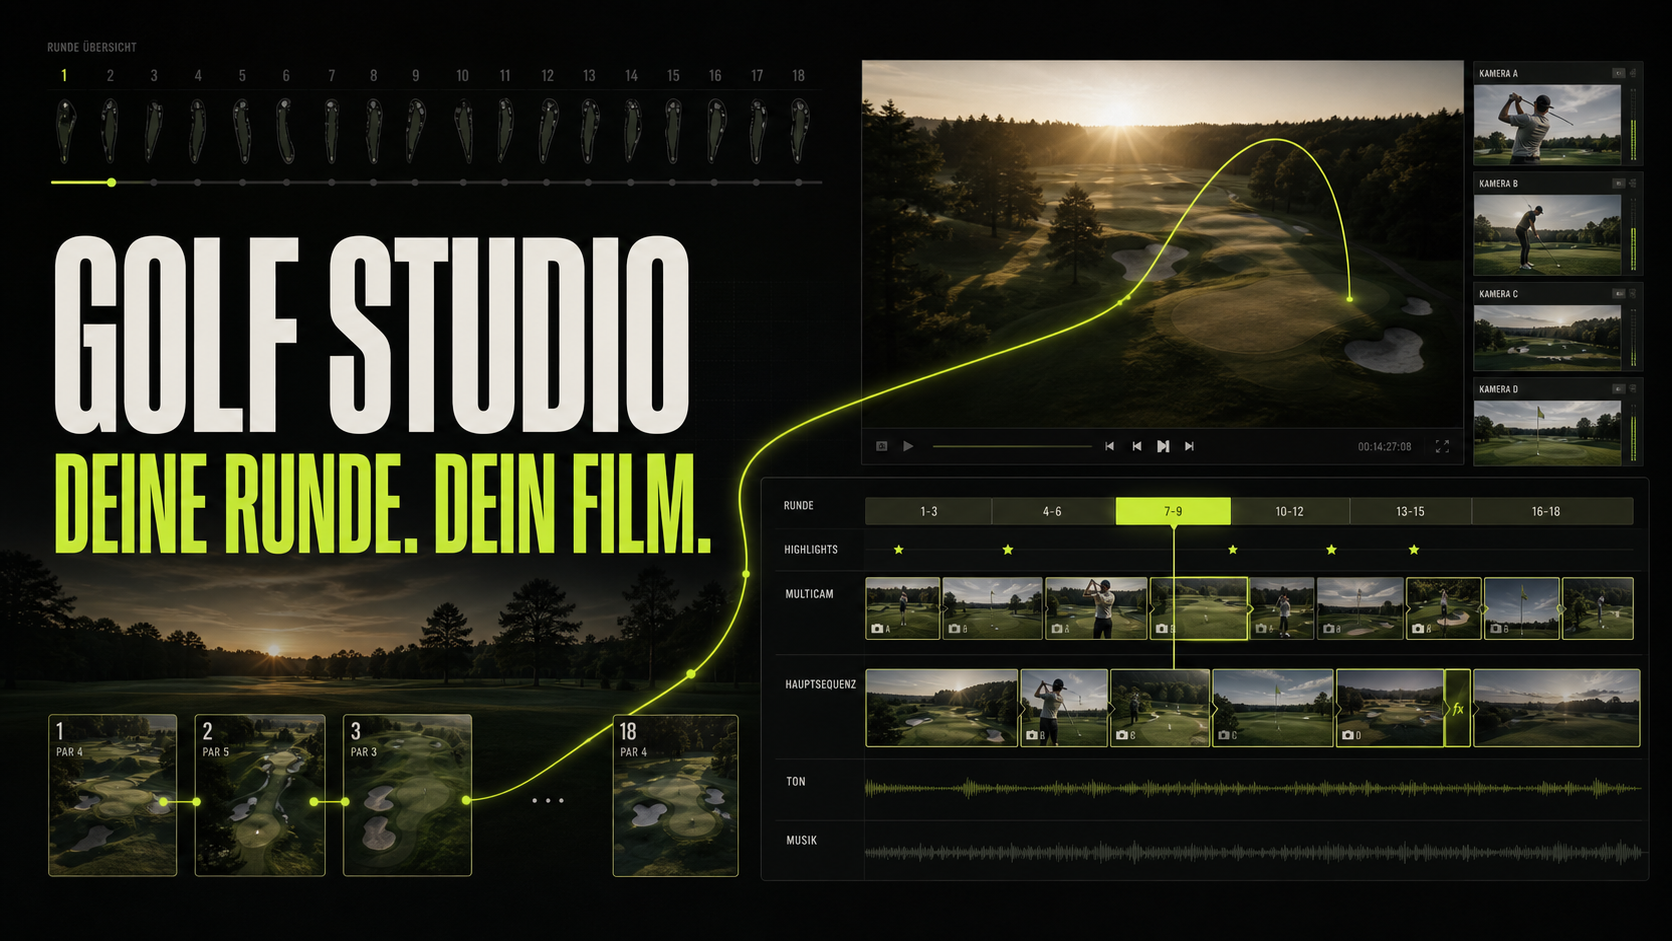
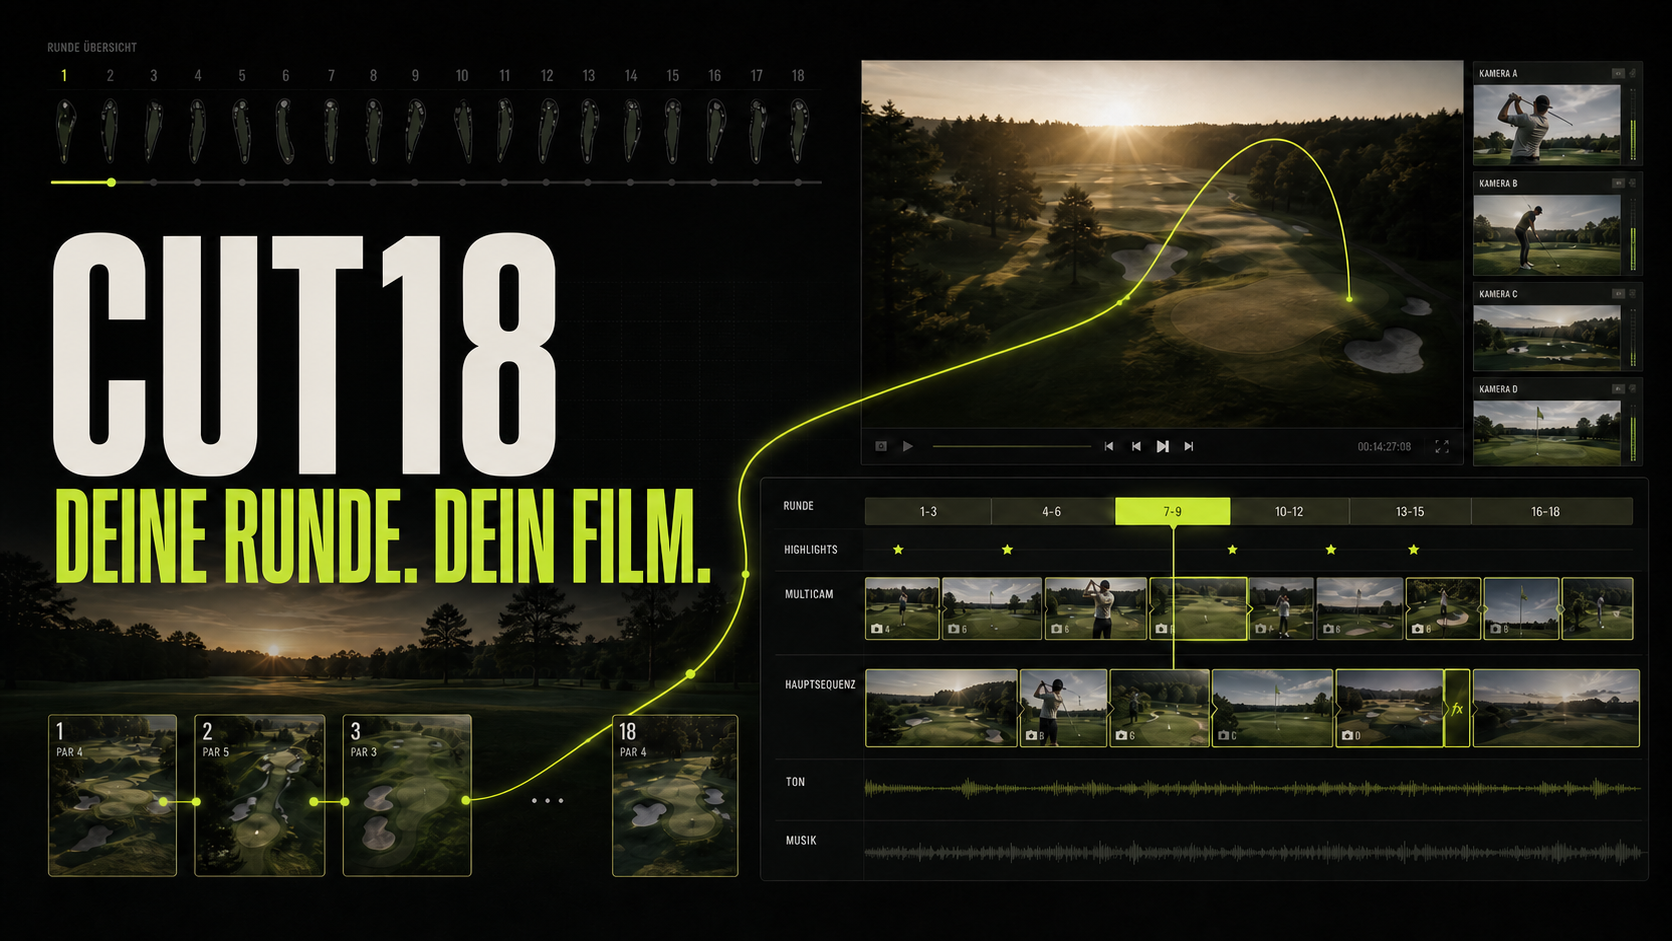
Adopt CUT18 brand across product

diff --git a/landing/index.html b/landing/index.html
@@ -4,21 +4,21 @@
     <meta charset="UTF-8" />
     <meta name="viewport" content="width=device-width, initial-scale=1.0" />
     <meta name="theme-color" content="#080b09" />
-    <meta name="description" content="Golf Studio ist das Schnitt-Playbook für komplette Golfvideos – von der Runde über Multicam und Golfgrafiken bis zum lokalen Export." />
-    <meta property="og:title" content="Golf Studio — Deine Runde. Dein Film." />
+    <meta name="description" content="CUT18 ist das Schnitt-Playbook für komplette Golfvideos – von der Runde über Multicam und Golfgrafiken bis zum lokalen Export." />
+    <meta property="og:title" content="CUT18 — Deine Runde. Dein Film." />
     <meta property="og:description" content="Das Schnitt-Playbook für vollständige Golfvideos." />
     <meta property="og:image" content="/og.png" />
     <meta property="og:type" content="website" />
     <meta name="twitter:card" content="summary_large_image" />
-    <title>Golf Studio — Deine Runde. Dein Film.</title>
+    <title>CUT18 — Deine Runde. Dein Film.</title>
     <link rel="stylesheet" href="/styles.css" />
 </head>
 <body>
     <div class="page-noise" aria-hidden="true"></div>
     <header class="site-header">
-        <a class="brand" href="#top" aria-label="Golf Studio Startseite">
+        <a class="brand" href="#top" aria-label="CUT18 Startseite">
             <span class="brand-mark"><i></i></span>
-            <span>GOLF <b>STUDIO</b></span>
+            <span>CUT<b>18</b></span>
         </a>
         <nav aria-label="Hauptnavigation">
             <a href="#playbook">Das Playbook</a>
@@ -34,7 +34,7 @@
             <div class="hero-copy reveal">
                 <div class="kicker"><span></span> DAS SCHNITT-PLAYBOOK FÜR GOLFVIDEOS</div>
                 <h1>Deine Runde.<br><em>Dein Film.</em></h1>
-                <p class="hero-lead">Golf Studio versteht die Dramaturgie einer Golfrunde. Aus Kameramaterial wird ein strukturierter Rohschnitt — bereit für Multicam, Golfgrafiken, Shot-Tracer und den finalen Export.</p>
+                <p class="hero-lead">CUT18 versteht die Dramaturgie einer Golfrunde. Aus Kameramaterial wird ein strukturierter Rohschnitt — bereit für Multicam, Golfgrafiken, Shot-Tracer und den finalen Export.</p>
                 <div class="hero-actions">
                     <button class="button button-primary" data-beta-trigger>Für die Windows-Beta vormerken <span>↗</span></button>
                     <a class="button button-ghost" href="#playbook"><span class="play-dot">▶</span> Das Playbook entdecken</a>
@@ -50,7 +50,7 @@
                 <div class="product-halo" aria-hidden="true"></div>
                 <div class="studio-window">
                     <div class="window-topbar">
-                        <div class="mini-brand"><span></span> GOLF STUDIO</div>
+                        <div class="mini-brand"><span></span> CUT18</div>
                         <div class="project-name">Runde · Falkenstein</div>
                         <div class="window-actions"><i></i><i></i><i></i></div>
                     </div>
@@ -100,7 +100,7 @@
             <div>
                 <p class="kicker"><span></span> DER UNTERSCHIED</p>
                 <h2>Eine leere Timeline kennt kein Golf.</h2>
-                <p>Golf Studio schon. Löcher, Spieler, Schlagreihenfolgen und Kameras sind keine losen Clips, sondern die Bausteine deiner Geschichte.</p>
+                <p>CUT18 schon. Löcher, Spieler, Schlagreihenfolgen und Kameras sind keine losen Clips, sondern die Bausteine deiner Geschichte.</p>
             </div>
             <div class="statement-proof">
                 <span>Golfblöcke</span><span>Spielerlogik</span><span>Multicam</span><span>Editorial-Look</span>
@@ -126,7 +126,7 @@
                 <article class="workflow-card reveal">
                     <div class="card-top"><span>02</span><b>RUNDE STRUKTURIEREN</b></div>
                     <h3>Die Runde gibt den Schnitt vor.</h3>
-                    <p>Ordne Aufnahmen nach Loch, Spieler und Schlag. Golf Studio bereitet daraus eine nachvollziehbare Reihenfolge vor.</p>
+                    <p>Ordne Aufnahmen nach Loch, Spieler und Schlag. CUT18 bereitet daraus eine nachvollziehbare Reihenfolge vor.</p>
                     <div class="round-map" aria-hidden="true">
                         <span class="active">01<i>PAR 4</i></span><span>02<i>PAR 3</i></span><span>03<i>PAR 5</i></span>
                         <div class="round-line"><i></i><i></i><i></i><i></i></div>
@@ -169,14 +169,14 @@
             <div class="beta-orbit" aria-hidden="true"><i></i><i></i><i></i></div>
             <p class="kicker centered"><span></span> PRIVATE WINDOWS BETA <span></span></p>
             <h2>Mach aus deiner nächsten Runde<br><em>einen richtigen Film.</em></h2>
-            <p>Golf Studio ist aktuell ein technischer Windows-Prototyp. Wir bereiten den vollständigen Workflow für erste Tester vor.</p>
+            <p>CUT18 ist aktuell ein technischer Windows-Prototyp. Wir bereiten den vollständigen Workflow für erste Tester vor.</p>
             <button class="button button-primary button-large" data-beta-trigger>Beta-Status ansehen <span>↗</span></button>
             <small>Noch keine Registrierung · keine Datenübertragung</small>
         </section>
     </main>
 
     <footer>
-        <a class="brand" href="#top"><span class="brand-mark"><i></i></span><span>GOLF <b>STUDIO</b></span></a>
+        <a class="brand" href="#top"><span class="brand-mark"><i></i></span><span>CUT<b>18</b></span></a>
         <p>Das Schnitt-Playbook für vollständige Golfvideos.</p>
         <span>Windows first · 2026</span>
     </footer>

diff --git a/dist-electron/main.js b/dist-electron/main.js
@@ -535,7 +535,7 @@ function registerIpc() {
         const result = await dialog.showSaveDialog({
             title: 'Golfprojekt speichern',
             defaultPath: 'Neue Golfrunde.golfcut',
-            filters: [{ name: 'Golf Round Studio Projekt', extensions: ['golfcut'] }],
+            filters: [{ name: 'CUT18 Projekt', extensions: ['golfcut'] }],
         });
         if (result.canceled || !result.filePath)
             return { canceled: true };
@@ -545,7 +545,7 @@ function registerIpc() {
     registerTrustedHandler('project:open', async () => {
         const result = await dialog.showOpenDialog({
             title: 'Golfprojekt öffnen', properties: ['openFile'],
-            filters: [{ name: 'Golf Round Studio Projekt', extensions: ['golfcut'] }],
+            filters: [{ name: 'CUT18 Projekt', extensions: ['golfcut'] }],
         });
         if (result.canceled || !result.filePaths[0])
             return { canceled: true };
@@ -620,7 +620,7 @@ function createWindow() {
         })[character] ?? character);
         const html = `<!doctype html><html lang="de"><meta charset="utf-8"><title>Startfehler</title>
       <body style="margin:0;background:#0a0d0c;color:#f1f5f2;font:16px/1.5 system-ui;padding:48px">
-      <h1 style="color:#79e66d">Golf Round Studio konnte die Oberfläche nicht laden.</h1>
+      <h1 style="color:#79e66d">CUT18 konnte die Oberfläche nicht laden.</h1>
       <p>${safeMessage}</p><p>Bitte die App schließen und das aktuelle Programmpaket erneut entpacken.</p></body></html>`;
         void window.loadURL(`data:text/html;charset=utf-8,${encodeURIComponent(html)}`);
     };

diff --git a/src/App.tsx b/src/App.tsx
@@ -158,7 +158,7 @@ function fileUrl(filePath: string): string {
 }
 
 function Brand() {
-    return <div className="brand"><span className="brand-mark"><Aperture size={20} /></span><span>GOLF ROUND <b>STUDIO</b></span></div>;
+    return <div className="brand"><span className="brand-mark"><Aperture size={20} /></span><span>CUT<b>18</b></span></div>;
 }
 
 interface SetupProps {

diff --git a/index.html b/index.html
@@ -4,7 +4,7 @@
     <meta charset="UTF-8" />
     <meta name="viewport" content="width=device-width, initial-scale=1.0" />
     <meta name="theme-color" content="#0a0d0c" />
-    <title>Golf Round Studio</title>
+    <title>CUT18</title>
   </head>
   <body>
     <div id="root"></div>

diff --git a/docs/landing-page-copy.md b/docs/landing-page-copy.md
@@ -15,7 +15,7 @@ Status: interner Entwurf. Dieser Text autorisiert weder Veröffentlichung noch W
 
 # Von der ganzen Golfrunde zum fertigen Video.
 
-Golf Studio führt dich vom Rohmaterial durch Sichtung, Spieler- und Lochstruktur und einen geordneten Rohschnitt bis zu Multicam, Golfgrafiken, Shot-Tracer und lokalem Export. Du musst keine generische Timeline von Grund auf bauen.
+CUT18 führt dich vom Rohmaterial durch Sichtung, Spieler- und Lochstruktur und einen geordneten Rohschnitt bis zu Multicam, Golfgrafiken, Shot-Tracer und lokalem Export. Du musst keine generische Timeline von Grund auf bauen.
 
 **Primärer CTA:** Für die Windows-Beta vormerken  
 **Sekundärer CTA:** So funktioniert das Playbook
@@ -26,13 +26,13 @@ Der primäre CTA bleibt bis zur ausdrücklichen Freigabe und einer dokumentierte
 
 ## Das Problem
 
-Generische Schnittprogramme verstehen keine Golfrunde. Löcher, Spieler, Schlagreihenfolgen, Score-Daten und mehrere Kameras müssen immer wieder von Hand in einer leeren Timeline organisiert werden. Genau diese wiederkehrende Vorarbeit soll Golf Studio in einen geführten, korrigierbaren Workflow verwandeln.
+Generische Schnittprogramme verstehen keine Golfrunde. Löcher, Spieler, Schlagreihenfolgen, Score-Daten und mehrere Kameras müssen immer wieder von Hand in einer leeren Timeline organisiert werden. Genau diese wiederkehrende Vorarbeit soll CUT18 in einen geführten, korrigierbaren Workflow verwandeln.
 
 ## Das Playbook
 
 1. **Material importieren** – Aufnahmen lokal einlesen; Originaldateien bleiben unverändert.
 2. **Die Runde strukturieren** – Clips Löchern, Spielern und Schlägen zuordnen.
-3. **Den Rohschnitt aufbauen** – Golf Studio bereitet eine nachvollziehbare Reihenfolge vor, die jederzeit korrigiert werden kann.
+3. **Den Rohschnitt aufbauen** – CUT18 bereitet eine nachvollziehbare Reihenfolge vor, die jederzeit korrigiert werden kann.
 4. **Gezielt veredeln** – Multicam, Loch- und Score-Grafiken, Spielerinformationen und Shot-Tracer dort einsetzen, wo sie die Geschichte verbessern.
 5. **Das Golfvideo exportieren** – Das zusammenhängende Video lokal ausgeben und später bei Bedarf einzelne Löcher oder Social Clips ableiten.
 
@@ -61,7 +61,7 @@ Analyse und Verarbeitung sind lokal vorgesehen. Originaldateien werden nicht ver
 
 ## Ehrlicher Beta-Status
 
-Golf Studio ist derzeit ein technischer Windows-Prototyp. Wir validieren den vollständigen Workflow vom Rundenmaterial bis zum lokalen Export mit frühen Testern. Noch nicht behaupten: vollautomatischer Schnitt, fertiges Video mit einem Klick, universelle Kamera- oder Codec-Unterstützung oder öffentliche Verfügbarkeit.
+CUT18 ist derzeit ein technischer Windows-Prototyp. Wir validieren den vollständigen Workflow vom Rundenmaterial bis zum lokalen Export mit frühen Testern. Noch nicht behaupten: vollautomatischer Schnitt, fertiges Video mit einem Klick, universelle Kamera- oder Codec-Unterstützung oder öffentliche Verfügbarkeit.
 
 ## Abschluss
 

diff --git a/README.md b/README.md
@@ -1,6 +1,8 @@
-# Golf Studio
+# CUT18
 
-Golf Studio ist das lokale Schnitt-Playbook für komplette Golfvideos. Die Windows-Desktop-App führt Golfer und Golf-Content-Creator vom Rohmaterial über die Struktur nach Löchern, Spielern und Schlägen zum zusammenhängenden Rohschnitt und ergänzt Multicam, Golf-Overlays und Shot-Tracer innerhalb desselben Workflows. Aus einem Projekt sollen sich vollständige Rundenvideos, einzelne Löcher und Social Clips exportieren lassen. Windows ist die erste Zielplattform; macOS folgt später.
+CUT18 ist das lokale Schnitt-Playbook für komplette Golfvideos. Die Windows-Desktop-App führt Golfer und Golf-Content-Creator vom Rohmaterial über die Struktur nach Löchern, Spielern und Schlägen zum zusammenhängenden Rohschnitt und ergänzt Multicam, Golf-Overlays und Shot-Tracer innerhalb desselben Workflows. Aus einem Projekt sollen sich vollständige Rundenvideos, einzelne Löcher und Social Clips exportieren lassen. Windows ist die erste Zielplattform; macOS folgt später.
+
+**Marke:** CUT18 · **Claim:** Deine Runde. Dein Film. · **vorgesehene URL:** `cut18.app` · **vorgesehener Social-Handle:** `@cut18golf`. Domain und Accounts sind noch nicht registriert.
 
 > Status: technischer Prototyp. Die vorhandenen Funktionen sind eine gute Ausgangsbasis, aber noch kein freigegebenes oder verkaufsfertiges Produkt. Siehe [Produktstatus](docs/product-status.md) und [MVP-Umfang](docs/mvp-scope.md).
 
@@ -61,4 +63,5 @@ Die verbindlichen Regeln stehen in [AGENTS.md](AGENTS.md) und [docs/approval-pol
 - [Architektur](docs/architecture.md)
 - [Business-Hypothesen](docs/business-hypotheses.md)
 - [Landingpage-Textentwurf](docs/landing-page-copy.md)
+- [Markengrundlage](docs/brand.md)
 - [Freigaberichtlinie](docs/approval-policy.md)

diff --git a/docs/brand.md b/docs/brand.md
@@ -1,0 +1,39 @@
+# Markengrundlage
+
+Stand: 5. August 2026 · von Johannes freigegeben
+
+## Kernmarke
+
+- **Name:** CUT18
+- **Aussprache:** „Cut Eighteen“
+- **deutscher Claim:** Deine Runde. Dein Film.
+- **englischer Claim:** Your round. Your film.
+- **Kategorie:** das Schnitt-Playbook für vollständige Golfvideos
+- **Produktbeschreibung:** CUT18 führt vom Rundenmaterial über Golfstruktur und Rohschnitt bis zu Multicam, Golfgrafiken, Shot-Tracer und lokalem Export.
+
+## Digitale Identität
+
+- **bevorzugte Domain:** `cut18.app`
+- **einheitlicher Social-Handle:** `@cut18golf`
+- **vorgesehene Absender:** `hello@cut18.app`, `support@cut18.app`
+
+Domain, Social-Accounts und E-Mail-Adressen sind noch nicht registriert oder aktiviert. Registrierung, Kauf, externe Kommunikation und Veröffentlichung benötigen eine separate ausdrückliche Freigabe.
+
+## Schreibweise
+
+- immer `CUT18` in Versalien
+- nicht `Cut 18`, `Cut18` oder `CUT 18`
+- der Name steht allein; „Golf Video Studio“ darf nur als beschreibender Zusatz verwendet werden
+- Social-Ausgaben verwenden `@cut18golf`, wenn der Handle bei der tatsächlichen Registrierung bestätigt wird
+
+## Visuelle Leitidee
+
+- tiefes Schwarz und dunkles Grün als filmische Basis
+- Electric Lime als präziser Akzent, nicht als flächiger Effekt
+- kondensierte, kräftige Editorial-Typografie
+- Rundenstruktur, Timeline und Flugbahn als wiederkehrende Motive
+- keine generischen SaaS-Verläufe, Cartoon-Golfmotive oder isolierte Shot-Tracer-Positionierung
+
+## Rechtlicher Status
+
+Die Namensfreigabe ist eine Produktentscheidung, keine abgeschlossene Markenprüfung. Vor öffentlichem Launch oder Markenanmeldung ist eine professionelle Ähnlichkeits- und Klassenprüfung erforderlich.

diff --git a/docs/product-vision.md b/docs/product-vision.md
@@ -6,7 +6,7 @@ Golf-Aufnahmen bestehen häufig aus langen, unübersichtlichen Clips. Allgemeine
 
 ## Vision
 
-Golf Studio macht aus dem Rohmaterial einer Golfrunde ein zusammenhängendes Golfvideo. Statt mit einer leeren generischen Timeline zu beginnen, folgt der Nutzer einem fertigen Schnitt-Playbook: Material sichten, Löchern, Spielern und Schlägen zuordnen, einen strukturierten Rohschnitt aufbauen und ihn mit Multicam, Golfgrafiken und Shot-Tracern veredeln. Vollständige Rundenvideos sind das primäre Ergebnis; einzelne Löcher und Social Clips lassen sich daraus ableiten. Die Verarbeitung bleibt lokal und jeder Vorschlag korrigierbar.
+CUT18 macht aus dem Rohmaterial einer Golfrunde ein zusammenhängendes Golfvideo. Statt mit einer leeren generischen Timeline zu beginnen, folgt der Nutzer einem fertigen Schnitt-Playbook: Material sichten, Löchern, Spielern und Schlägen zuordnen, einen strukturierten Rohschnitt aufbauen und ihn mit Multicam, Golfgrafiken und Shot-Tracern veredeln. Vollständige Rundenvideos sind das primäre Ergebnis; einzelne Löcher und Social Clips lassen sich daraus ableiten. Die Verarbeitung bleibt lokal und jeder Vorschlag korrigierbar.
 
 ## Zielgruppen
 

diff --git a/docs/architecture.md b/docs/architecture.md
@@ -2,7 +2,7 @@
 
 ## Entscheidung
 
-Golf Studio bleibt für die nächste Produktphase bei **Electron + React + TypeScript**. Diese Entscheidung nutzt die vorhandene App, minimiert einen riskanten Rewrite und bietet einen gut automatisierbaren Entwicklungs- und Testpfad. Sie wird nach dem Windows-MVP anhand gemessener Startzeit, Speicherbedarf, Paketgröße und Video-Performance überprüft.
+CUT18 bleibt für die nächste Produktphase bei **Electron + React + TypeScript**. Diese Entscheidung nutzt die vorhandene App, minimiert einen riskanten Rewrite und bietet einen gut automatisierbaren Entwicklungs- und Testpfad. Sie wird nach dem Windows-MVP anhand gemessener Startzeit, Speicherbedarf, Paketgröße und Video-Performance überprüft.
 
 ## Bewertete Alternativen
 

diff --git a/AGENTS.md b/AGENTS.md
@@ -1,10 +1,10 @@
-# Golf Studio – Agent Instructions
+# CUT18 – Agent Instructions
 
 Diese Regeln gelten im gesamten Repository. Spezifischere `AGENTS.md`-Dateien dürfen sie ergänzen, aber nicht die Sicherheits- und Freigaberegeln abschwächen.
 
 ## Auftrag
 
-Entwickle Golf Studio schrittweise zu einem verlässlichen, verkaufbaren Windows-Produkt. Optimiere zuerst den engsten validierten Nutzerpfad; neue Funktionsbreite ist nachrangig.
+Entwickle CUT18 schrittweise zu einem verlässlichen, verkaufbaren Windows-Produkt. Optimiere zuerst den engsten validierten Nutzerpfad; neue Funktionsbreite ist nachrangig.
 
 ## Verbindlicher Workflow
 
